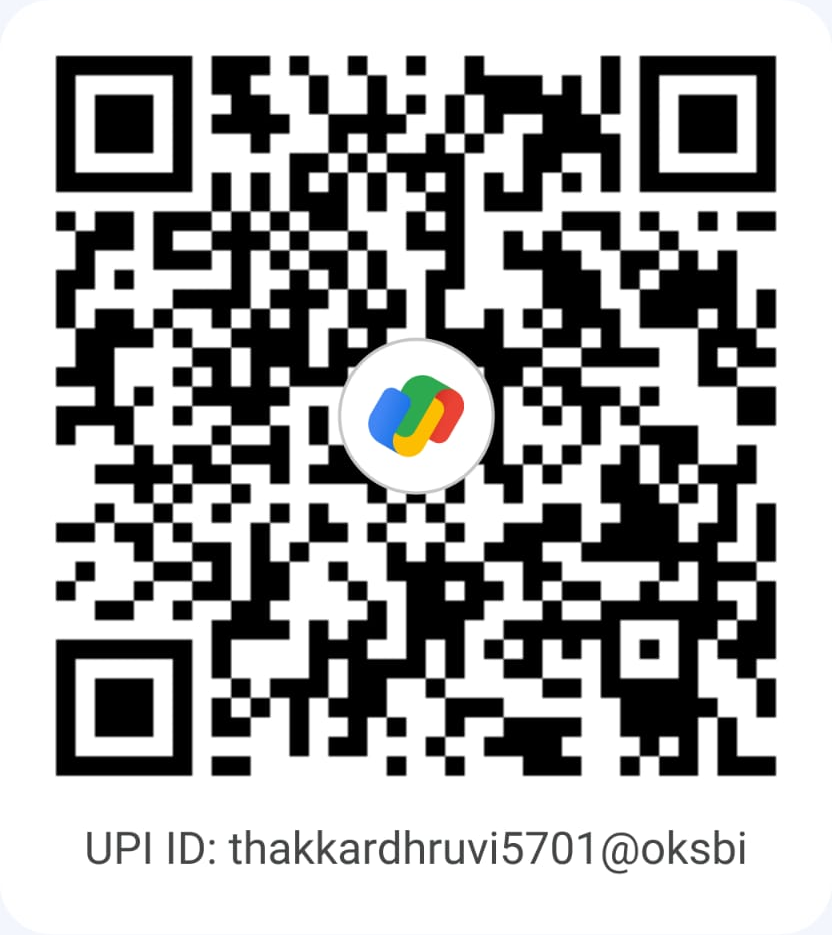
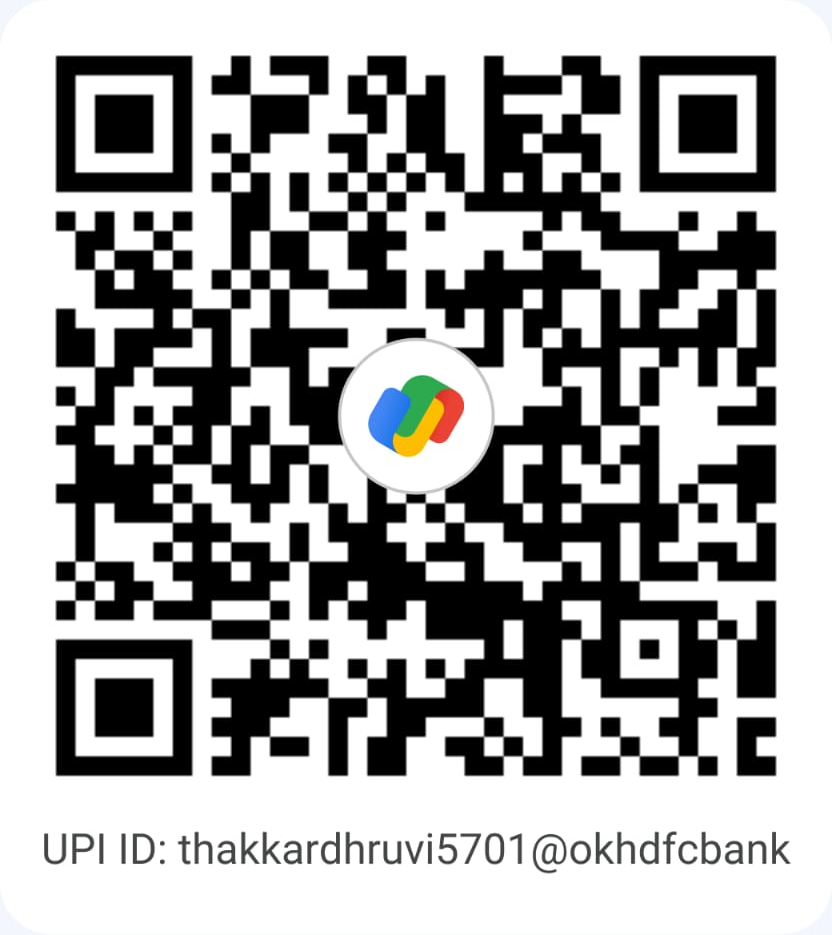
New payment QR and UPI ID (okhdfcbank)
The payment step's QR is the card cut from the new Google Pay QR, and the UPI ID behind the
Copy button and the "Pay in your UPI app" link is thakkardhruvi5701@okhdfcbank (was @oksbi).

Changed region(s): [[0.0625, 0.031, 0.9375, 0.8374], [0.0312, 0.8684, 0.9688, 0.9305]]

diff --git a/config.js b/config.js
@@ -44,7 +44,7 @@ window.AOD_EXPO_CONFIG = {
   // account. With both upiId and qrImage empty, the form asks people to get the payment details
   // from the AOD team at the expo.
   payment: {
-    upiId: "thakkardhruvi5701@oksbi",
+    upiId: "thakkardhruvi5701@okhdfcbank",
     payeeName: "Dhruvi Thakkar",
     qrImage: "assets/img/upi-qr.png",
     // Shown under the payment details. ({price} becomes the offer's price, e.g. "₹3,499".)

diff --git a/README.md b/README.md
@@ -31,7 +31,7 @@ No framework and no build step: plain HTML, CSS and JavaScript. `npm run dev` on
 ## Before using it with real exhibitors
 
 1. **Google Sheet: connected** (22 Oct 2026). The Sheet and the script are on aod.itdpt@gmail.com (the account of the aod.co.in orders sheet), `submitUrl` in `config.js` points to the web app, and each booking adds a row, saves the screenshot and logo to Drive and emails communication.aod@gmail.com. `sheetsguide.md` is how it was set up. If `submitUrl` is ever emptied, the form goes back to opening WhatsApp with the booking and saving nothing.
-2. **Payment details.** `payment` in `config.js` has the UPI ID (`thakkardhruvi5701@oksbi`, the account of Dhruvi Thakkar) and the QR (`assets/img/upi-qr.png`, cut from the Google Pay QR). Each booking is for one shoot day (the form takes one date), so the amount to pay is the offer's price, ₹3,499. On phones, tapping the QR, the UPI ID or "Pay ₹… in your UPI app" opens the UPI app with that amount filled in; iPhones also get Google Pay, PhonePe and Paytm buttons. On laptops the QR is scanned with a phone and the amount is shown big to type in. Some UPI apps refuse a payment link to a personal UPI ID: BHIM says "request type not supported" (Google Pay accepts it), so under the Pay button the page tells people to copy the UPI ID and pay the amount by hand. Scanning the QR from another phone also works, and a business (merchant) UPI ID avoids the problem in every app. To change the account, change `upiId` and `payeeName` and replace the QR image.
+2. **Payment details.** `payment` in `config.js` has the UPI ID (`thakkardhruvi5701@okhdfcbank`, the account of Dhruvi Thakkar) and the QR (`assets/img/upi-qr.png`, cut from the Google Pay QR). Each booking is for one shoot day (the form takes one date), so the amount to pay is the offer's price, ₹3,499. On phones, tapping the QR, the UPI ID or "Pay ₹… in your UPI app" opens the UPI app with that amount filled in; iPhones also get Google Pay, PhonePe and Paytm buttons. On laptops the QR is scanned with a phone and the amount is shown big to type in. Some UPI apps refuse a payment link to a personal UPI ID: BHIM says "request type not supported" (Google Pay accepts it), so under the Pay button the page tells people to copy the UPI ID and pay the amount by hand. Scanning the QR from another phone also works, and a business (merchant) UPI ID avoids the problem in every app. To change the account, change `upiId` and `payeeName` and replace the QR image.
 3. **Check the offer.** `offer` in `config.js` holds the price, what's included and the sample reel links. Make sure both Drive links are shared as "Anyone with the link".
 4. **Expos on the page:** FIRSST 2026 (22–24 Oct, Helipad Exhibition Centre) and IIF 2026, the Indian Industrial Fair by Laghu Udyog Bharati (23–26 Oct, Helipad Ground), both in Gandhinagar. Add the next one in `data/expos.js`.
 
